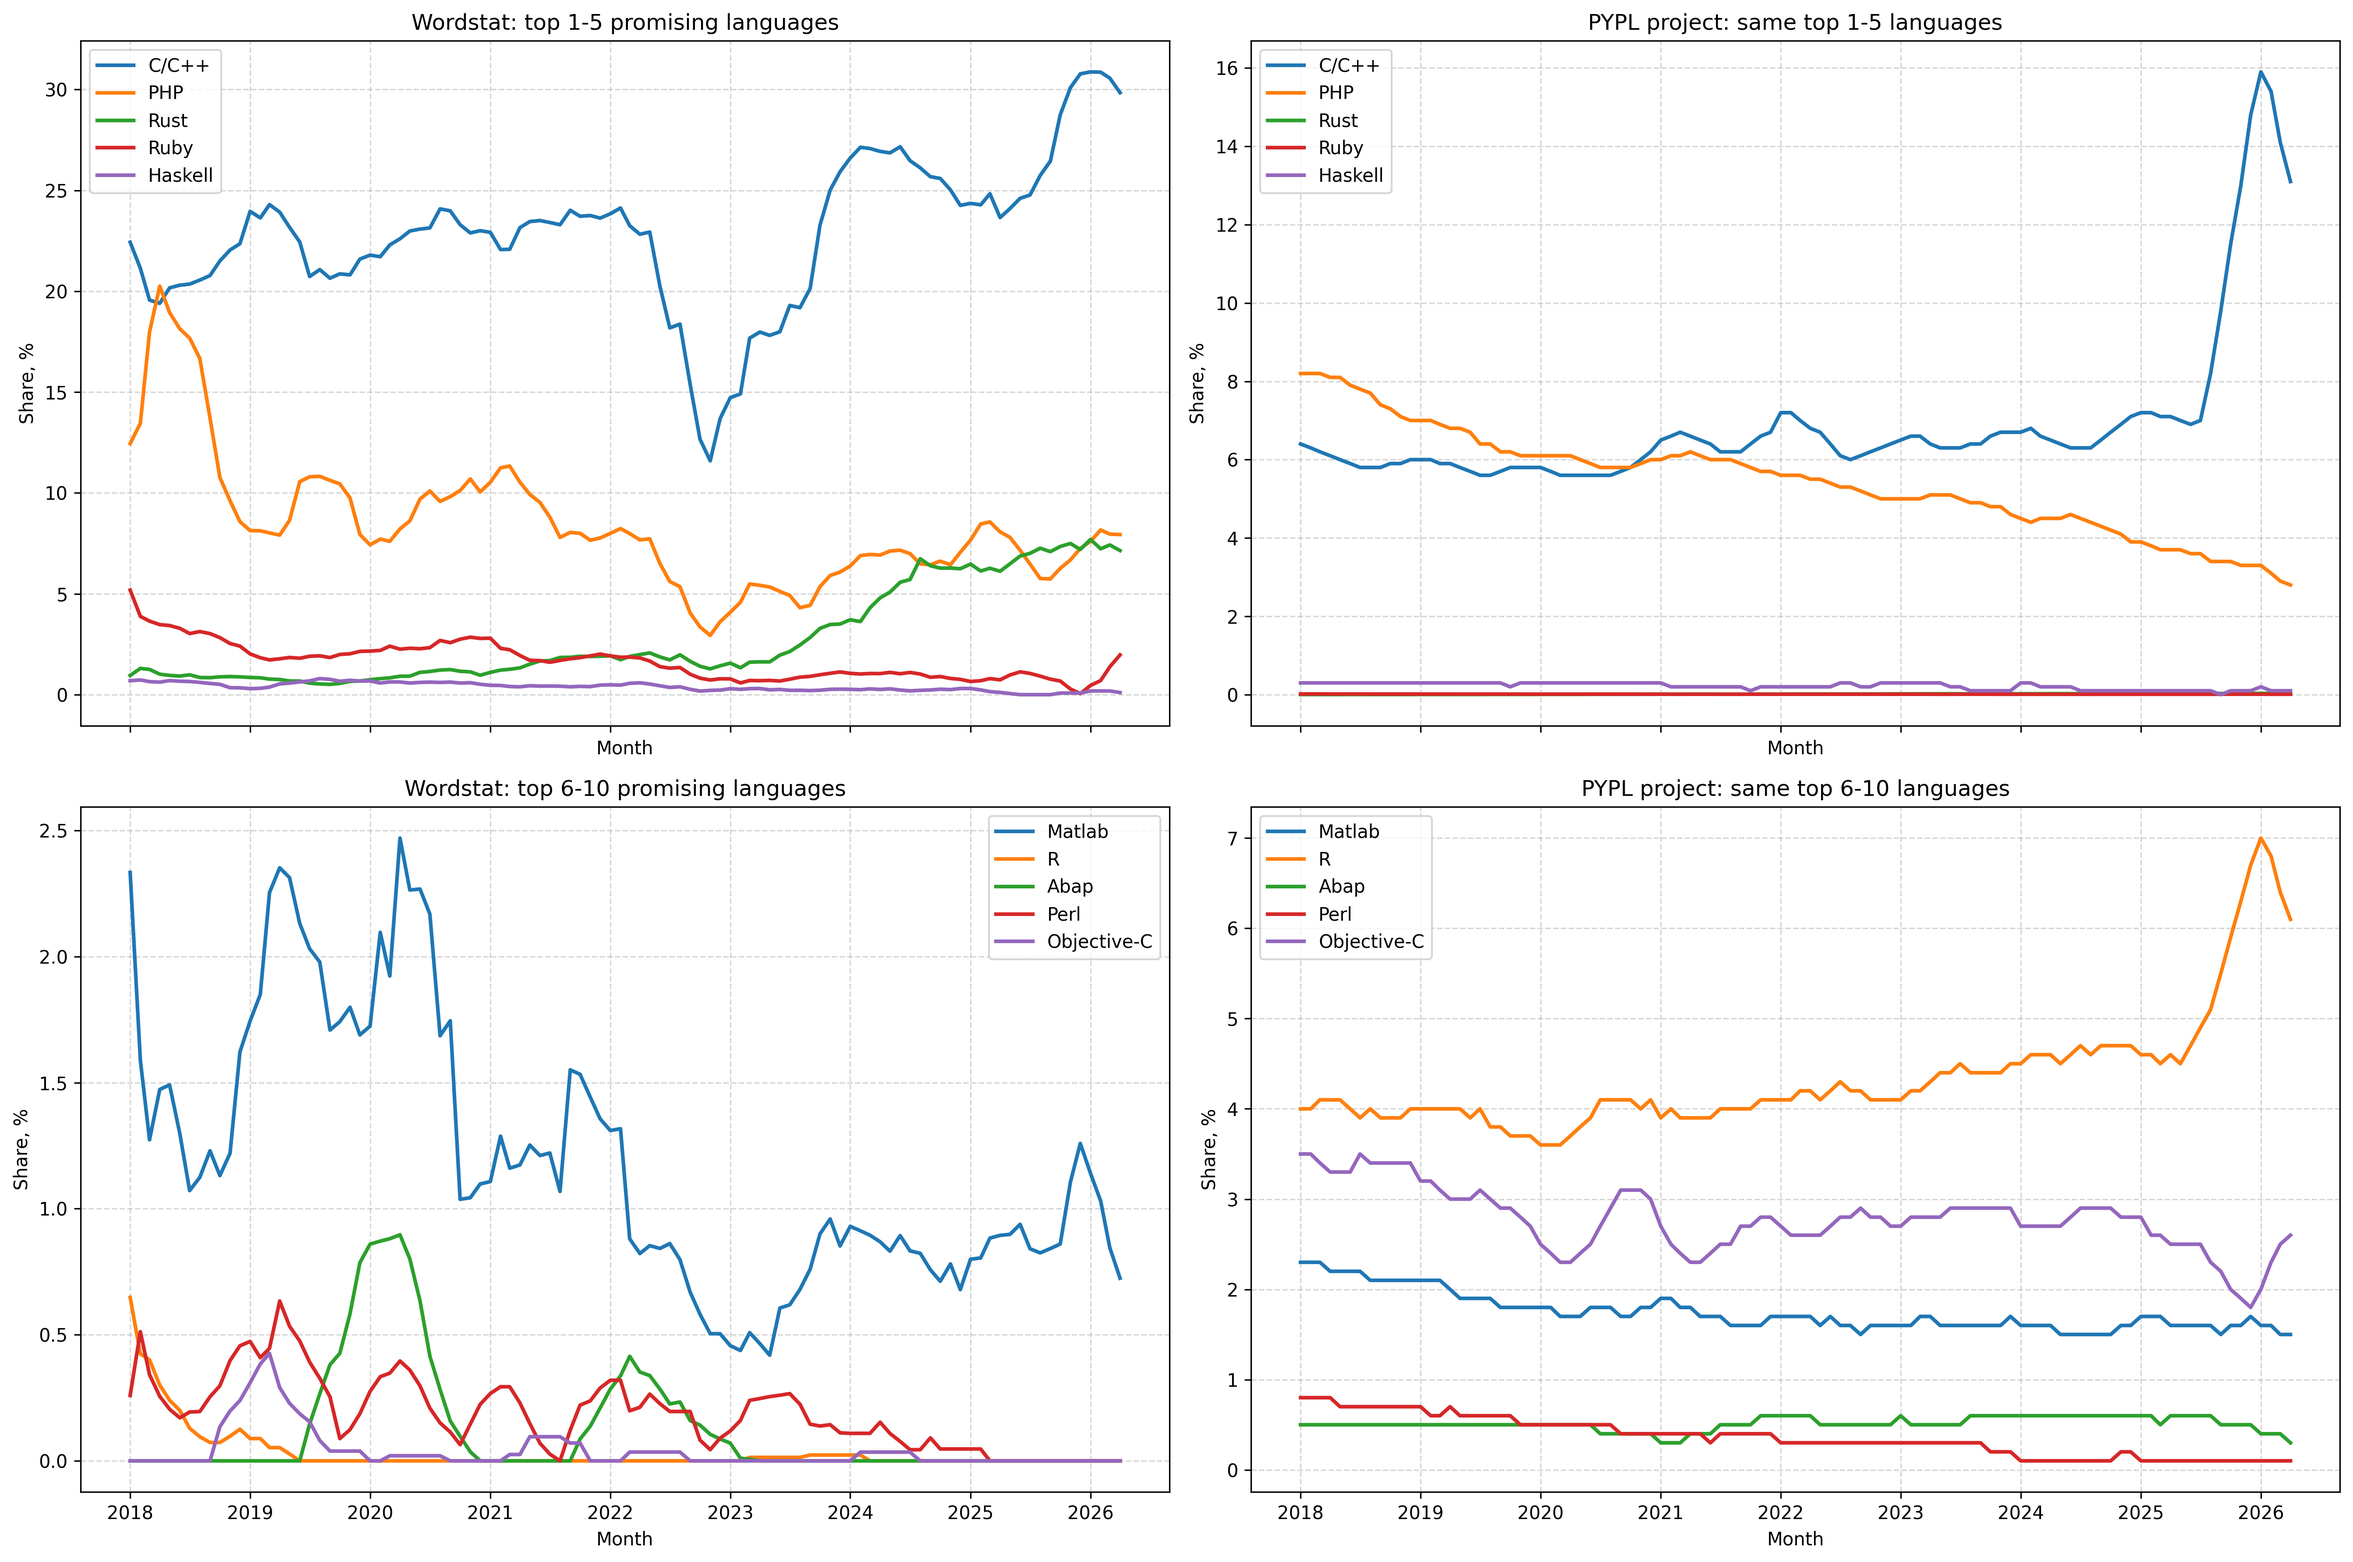
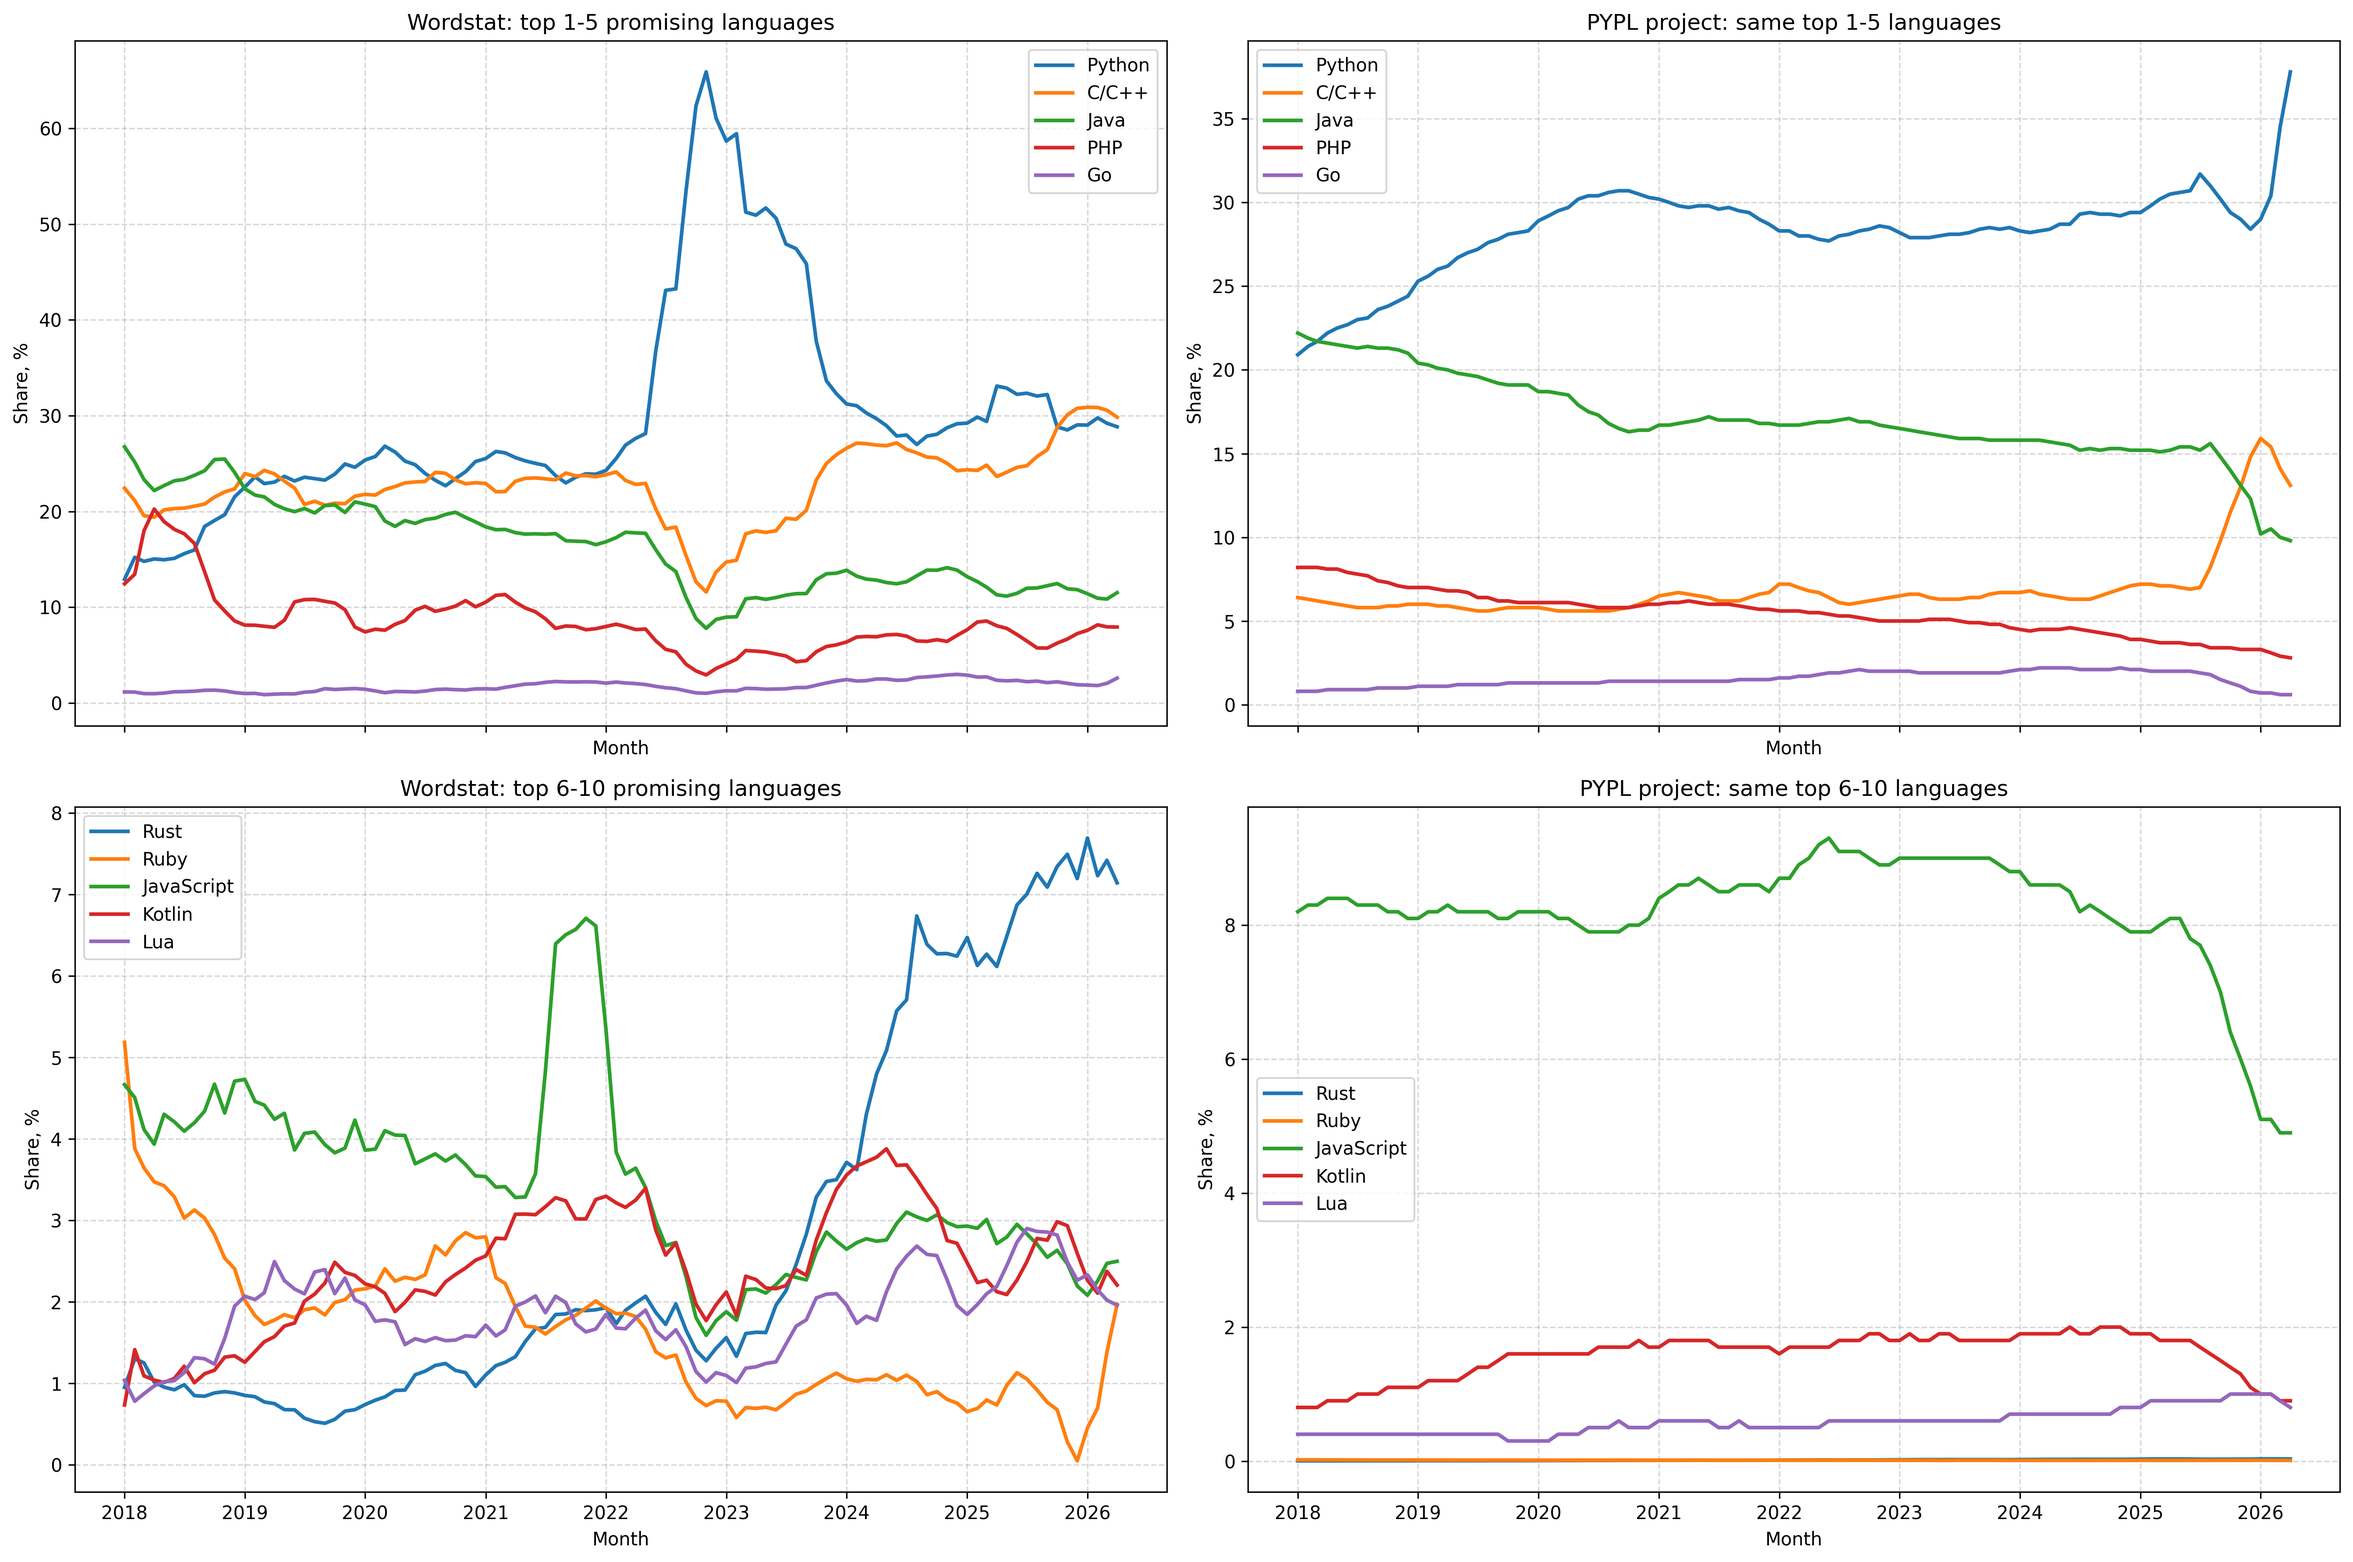
changed sort for graphics

diff --git a/main.py b/main.py
@@ -157,8 +157,8 @@ def build_latest_ranking(monthly_index_df: pd.DataFrame) -> pd.DataFrame:
 def build_top10_ranking(latest_ranking_df: pd.DataFrame) -> pd.DataFrame:
     return (
         latest_ranking_df.sort_values(
-            ["yearly_trend_pp", "share_pct"],
-            ascending=[False, False],
+            ["share_pct"],
+            ascending=[False],
         )
         .head(TOP_LANGUAGE_COUNT)
         .reset_index(drop=True)
@@ -248,7 +248,7 @@ def plot_bar_chart(
     ylabel: str,
     output_path: Path,
 ) -> None:
-    chart_df = df.sort_values(metric, ascending=False)
+    chart_df = df.copy()
     plt.figure(figsize=(12, 6))
     plt.bar(chart_df["language"], chart_df[metric], color="steelblue")
     plt.title(title)
@@ -304,7 +304,7 @@ def create_visualizations(
         monthly_index_df,
         first_group,
         "count",
-        "Top 1-5 Promising Languages: Wordstat Query Counts",
+        "Top 1-5 Languages by Latest Share: Wordstat Query Counts",
         "Query count",
         RAW_COUNTS_TOP1_5_CHART,
     )
@@ -312,7 +312,7 @@ def create_visualizations(
         monthly_index_df,
         second_group,
         "count",
-        "Top 6-10 Promising Languages: Wordstat Query Counts",
+        "Top 6-10 Languages by Latest Share: Wordstat Query Counts",
         "Query count",
         RAW_COUNTS_TOP6_10_CHART,
     )
@@ -320,7 +320,7 @@ def create_visualizations(
         monthly_index_df,
         first_group,
         "smoothed_share_pct",
-        "Top 1-5 Promising Languages: Smoothed PYPL-like Share",
+        "Top 1-5 Languages by Latest Share: Smoothed PYPL-like Share",
         "Smoothed share, %",
         SMOOTHED_SHARE_TOP1_5_CHART,
     )
@@ -328,21 +328,21 @@ def create_visualizations(
         monthly_index_df,
         second_group,
         "smoothed_share_pct",
-        "Top 6-10 Promising Languages: Smoothed PYPL-like Share",
+        "Top 6-10 Languages by Latest Share: Smoothed PYPL-like Share",
         "Smoothed share, %",
         SMOOTHED_SHARE_TOP6_10_CHART,
     )
     plot_bar_chart(
         top10_ranking_df,
         "share_pct",
-        "Top 10 Promising Languages: Latest Month Share",
+        "Top 10 Languages by Latest Share: Latest Month Share",
         "Share, %",
         LATEST_SHARE_TOP10_CHART,
     )
     plot_bar_chart(
         top10_ranking_df,
         "yearly_trend_pp",
-        "Top 10 Promising Languages: Yearly Trend",
+        "Top 10 Languages by Latest Share: Yearly Trend",
         "Trend, percentage points per year",
         YEARLY_TREND_TOP10_CHART,
     )
@@ -388,7 +388,7 @@ def print_summary(summary: SummaryResult, top10_ranking_df: pd.DataFrame) -> Non
         f"- Highest average share over the whole period: {summary.highest_average_share_language} "
         f"({summary.highest_average_share_value:.2f}%)"
     )
-    print("- Top 10 promising languages used in charts:")
+    print("- Top 10 languages by latest share used in charts:")
     print("  " + ", ".join(top10_ranking_df["language"].tolist()))
     print("- Limitations:")
     print("  1. The source is Yandex Wordstat, not Google Trends.")
